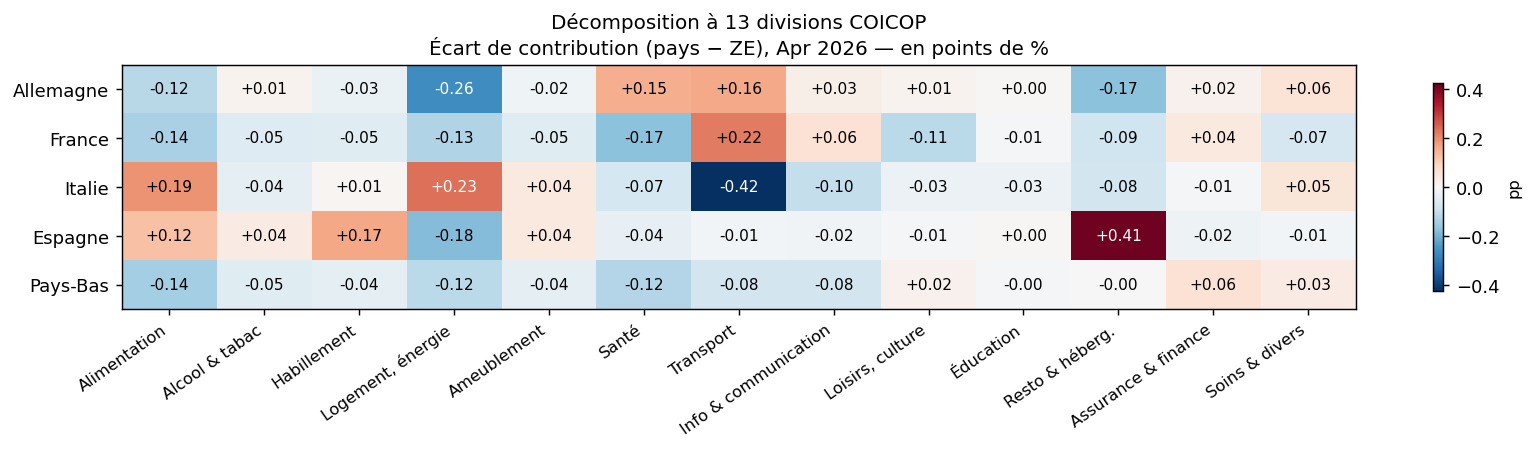
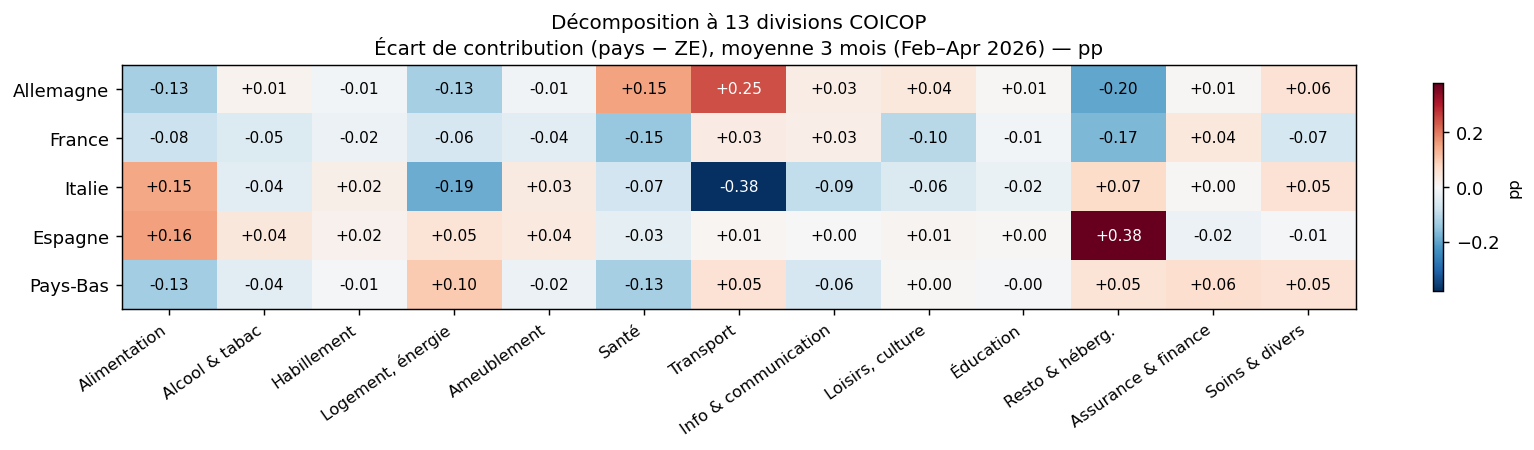
Use 3-month moving average for country-vs-EA heatmaps

diff --git a/plot_country_vs_ea.py b/plot_country_vs_ea.py
@@ -79,13 +79,12 @@ def gap(geo: str, cols: list[str]) -> pd.DataFrame:
 # ============================================================
 # 1) HEATMAP au dernier point — 4 agrégats puis 13 divisions
 # ============================================================
-def make_heatmap(cols, labels_dict, title, outpath, figwidth):
+def make_heatmap(cols, labels_dict, title, outpath, figwidth, ma_months=3):
     rows = []
     for g in GEOS_NON_EA:
-        gap_g = gap(g, cols).iloc[-1]
+        gap_g = gap(g, cols).rolling(ma_months).mean().iloc[-1]
         rows.append(gap_g.rename(g))
     H = pd.DataFrame(rows)
-    # Réordonne colonnes
     H = H[cols]
 
     fig, ax = plt.subplots(figsize=(figwidth, 3.6))
@@ -103,8 +102,10 @@ def make_heatmap(cols, labels_dict, title, outpath, figwidth):
             ax.text(j, i, f"{v:+.2f}", ha="center", va="center",
                     color=color, fontsize=8.5)
 
-    last_date = ribe("EA", cols).index[-1].strftime("%b %Y")
-    ax.set_title(f"{title}\nÉcart de contribution (pays − ZE), {last_date} — en points de %",
+    end = ribe("EA", cols).index[-1]
+    start = end - pd.DateOffset(months=ma_months - 1)
+    period = f"{start.strftime('%b')}–{end.strftime('%b %Y')}"
+    ax.set_title(f"{title}\nÉcart de contribution (pays − ZE), moyenne {ma_months} mois ({period}) — pp",
                  fontsize=11)
     cbar = plt.colorbar(im, ax=ax, shrink=0.85)
     cbar.set_label("pp", fontsize=9)
